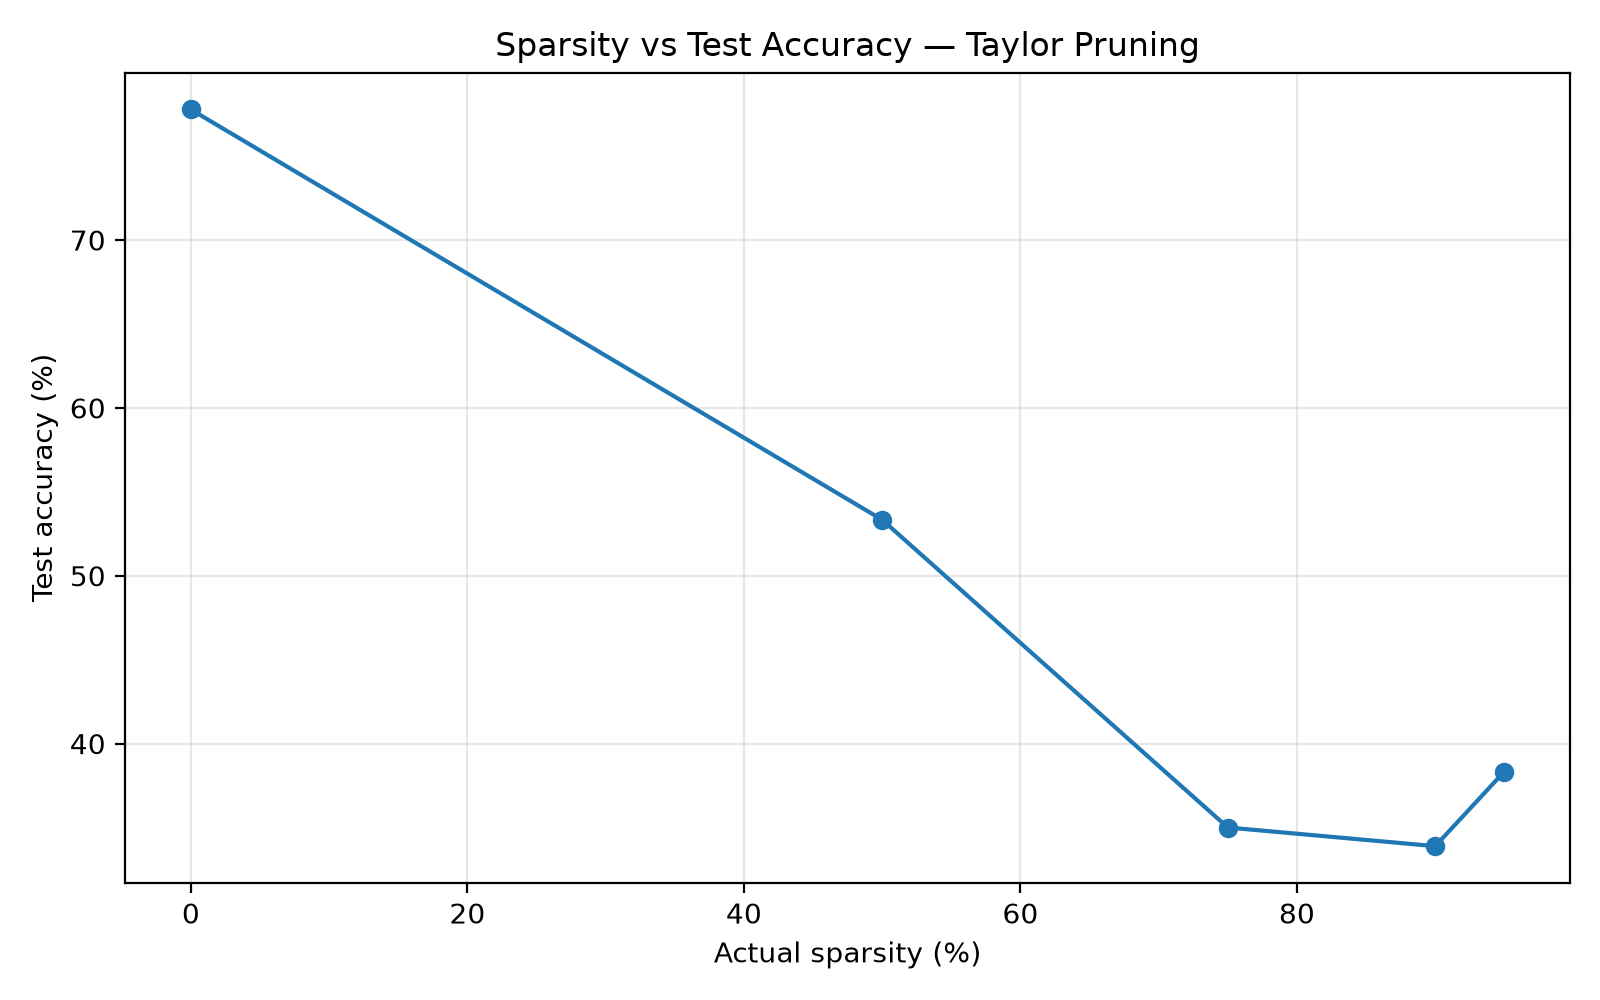
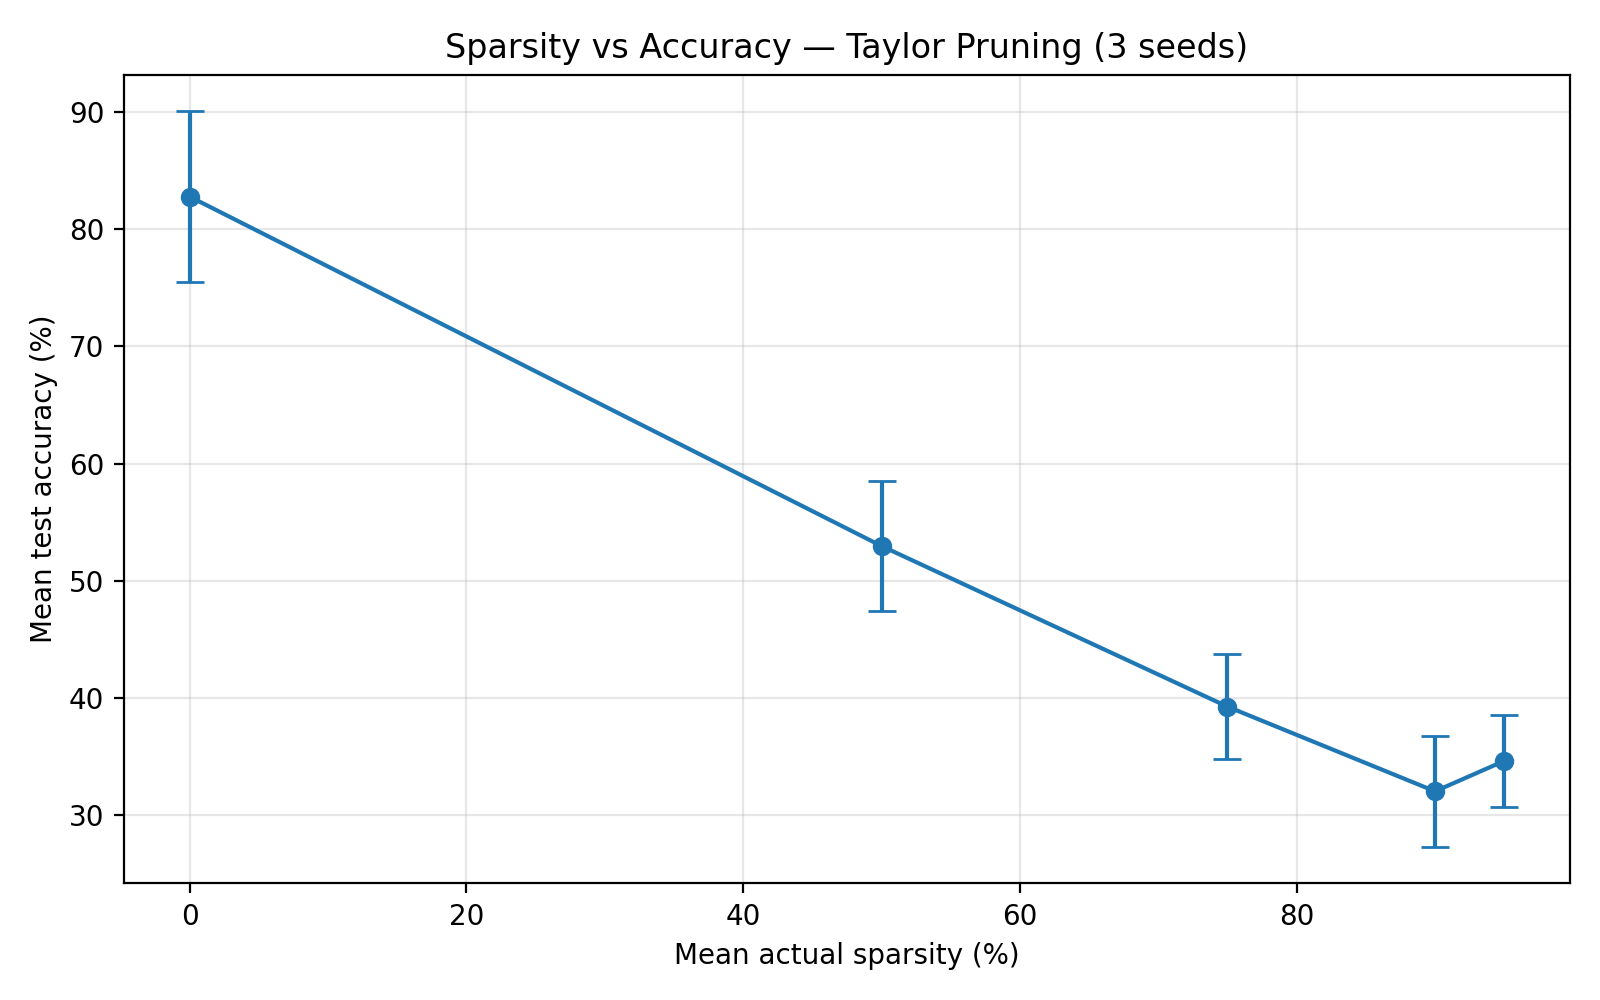
Add multi-seed sparsity accuracy Pareto results

diff --git a/pareto_experiment.py b/pareto_experiment.py
@@ -13,17 +13,18 @@ from pruning import prune_weights
 
 
 SPARSITY_LEVELS = [0.0, 0.50, 0.75, 0.90, 0.95]
+RANDOM_SEEDS = [42, 43, 44]
 
 
 def evaluate_accuracy(model, X, y):
-    """Return classification accuracy on the supplied dataset."""
+    """Calculate classification accuracy."""
     logits = model.forward(Tensor(X))
     predictions = np.argmax(logits.data, axis=1)
     return float(np.mean(predictions == y))
 
 
-def train_dense_baseline(X_train, y_train, seed=42):
-    """Train one dense model without pruning."""
+def train_dense_baseline(X_train, y_train, seed):
+    """Train a fresh dense model without pruning."""
     np.random.seed(seed)
     rng = np.random.default_rng(seed + 123)
 
@@ -68,7 +69,7 @@ def train_dense_baseline(X_train, y_train, seed=42):
 
 
 def main():
-    # Generate a reproducible dataset and split.
+    # Keep the dataset and train/test split fixed for fair comparison.
     X, y = make_spiral_data(
         samples_per_class=300,
         num_classes=3,
@@ -86,84 +87,148 @@ def main():
     X_train, y_train = X[train_indices], y[train_indices]
     X_test, y_test = X[test_indices], y[test_indices]
 
-    print("Training dense baseline...")
-    baseline = train_dense_baseline(
-        X_train,
-        y_train,
-        seed=42,
-    )
+    raw_results = []
 
-    results = []
+    for seed in RANDOM_SEEDS:
+        print(f"\nTraining dense baseline with seed {seed}...")
 
-    for target_sparsity in SPARSITY_LEVELS:
-        # Each experiment starts from the same trained baseline.
-        model = copy.deepcopy(baseline)
-
-        if target_sparsity > 0:
-            actual_sparsity = prune_weights(
-                model,
-                target_sparsity,
-                X_train,
-                y_train,
-                batch_size=32,
-            )
-        else:
-            actual_sparsity = 0.0
-
-        accuracy = evaluate_accuracy(model, X_test, y_test)
-
-        row = {
-            "target_sparsity": target_sparsity,
-            "actual_sparsity": actual_sparsity,
-            "test_accuracy": accuracy,
-        }
-        results.append(row)
-
-        print(
-            f"Target: {target_sparsity:.0%} | "
-            f"Actual: {actual_sparsity:.2%} | "
-            f"Test accuracy: {accuracy:.2%}"
+        baseline = train_dense_baseline(
+            X_train,
+            y_train,
+            seed=seed,
         )
 
-    # Save the raw measured results.
+        for target_sparsity in SPARSITY_LEVELS:
+            # Every sparsity level starts from this seed's same baseline.
+            model = copy.deepcopy(baseline)
+
+            if target_sparsity > 0:
+                actual_sparsity = prune_weights(
+                    model,
+                    target_sparsity,
+                    X_train,
+                    y_train,
+                    batch_size=32,
+                )
+            else:
+                actual_sparsity = 0.0
+
+            accuracy = evaluate_accuracy(model, X_test, y_test)
+
+            row = {
+                "seed": seed,
+                "target_sparsity": target_sparsity,
+                "actual_sparsity": actual_sparsity,
+                "test_accuracy": accuracy,
+            }
+            raw_results.append(row)
+
+            print(
+                f"Seed: {seed} | "
+                f"Target: {target_sparsity:.0%} | "
+                f"Actual: {actual_sparsity:.2%} | "
+                f"Accuracy: {accuracy:.2%}"
+            )
+
+    # Save every individual measurement.
     with open(
         "pareto_results.csv",
         "w",
         newline="",
         encoding="utf-8",
     ) as file:
-        writer = csv.DictWriter(
-            file,
-            fieldnames=[
-                "target_sparsity",
-                "actual_sparsity",
-                "test_accuracy",
-            ],
-        )
+        fieldnames = [
+            "seed",
+            "target_sparsity",
+            "actual_sparsity",
+            "test_accuracy",
+        ]
+        writer = csv.DictWriter(file, fieldnames=fieldnames)
         writer.writeheader()
-        writer.writerows(results)
+        writer.writerows(raw_results)
 
-    # Plot actual sparsity against measured test accuracy.
-    sparsities = [
-        row["actual_sparsity"] * 100 for row in results
+    # Calculate mean and standard deviation across seeds.
+    summary_results = []
+
+    for target_sparsity in SPARSITY_LEVELS:
+        matching_rows = [
+            row for row in raw_results
+            if row["target_sparsity"] == target_sparsity
+        ]
+
+        accuracies = np.array(
+            [row["test_accuracy"] for row in matching_rows]
+        )
+        actual_sparsities = np.array(
+            [row["actual_sparsity"] for row in matching_rows]
+        )
+
+        summary_results.append({
+            "target_sparsity": target_sparsity,
+            "mean_actual_sparsity": float(np.mean(actual_sparsities)),
+            "mean_test_accuracy": float(np.mean(accuracies)),
+            "std_test_accuracy": float(np.std(accuracies, ddof=1)),
+        })
+
+    with open(
+        "pareto_summary.csv",
+        "w",
+        newline="",
+        encoding="utf-8",
+    ) as file:
+        fieldnames = [
+            "target_sparsity",
+            "mean_actual_sparsity",
+            "mean_test_accuracy",
+            "std_test_accuracy",
+        ]
+        writer = csv.DictWriter(file, fieldnames=fieldnames)
+        writer.writeheader()
+        writer.writerows(summary_results)
+
+    # Plot mean accuracy with standard-deviation error bars.
+    x_values = [
+        row["mean_actual_sparsity"] * 100
+        for row in summary_results
     ]
-    accuracies = [
-        row["test_accuracy"] * 100 for row in results
+    means = [
+        row["mean_test_accuracy"] * 100
+        for row in summary_results
+    ]
+    standard_deviations = [
+        row["std_test_accuracy"] * 100
+        for row in summary_results
     ]
 
     plt.figure(figsize=(8, 5))
-    plt.plot(sparsities, accuracies, marker="o")
-    plt.xlabel("Actual sparsity (%)")
-    plt.ylabel("Test accuracy (%)")
-    plt.title("Sparsity vs Test Accuracy — Taylor Pruning")
+    plt.errorbar(
+        x_values,
+        means,
+        yerr=standard_deviations,
+        marker="o",
+        capsize=5,
+    )
+    plt.xlabel("Mean actual sparsity (%)")
+    plt.ylabel("Mean test accuracy (%)")
+    plt.title("Sparsity vs Accuracy — Taylor Pruning (3 seeds)")
     plt.grid(True, alpha=0.3)
     plt.tight_layout()
     plt.savefig("pareto_curve.png", dpi=200)
     plt.close()
 
     print("\nSaved raw results: pareto_results.csv")
+    print("Saved summary statistics: pareto_summary.csv")
     print("Saved graph: pareto_curve.png")
+
+    print("\nSummary (mean accuracy ± standard deviation):")
+    for row in summary_results:
+        print(
+            f"Sparsity {row['target_sparsity']:.0%}: "
+            f"{row['mean_test_accuracy']:.2%} "
+            f"+/- {row['std_test_accuracy']:.2%}"
+        )
 
 
 if __name__ == "__main__":
     main()
+
